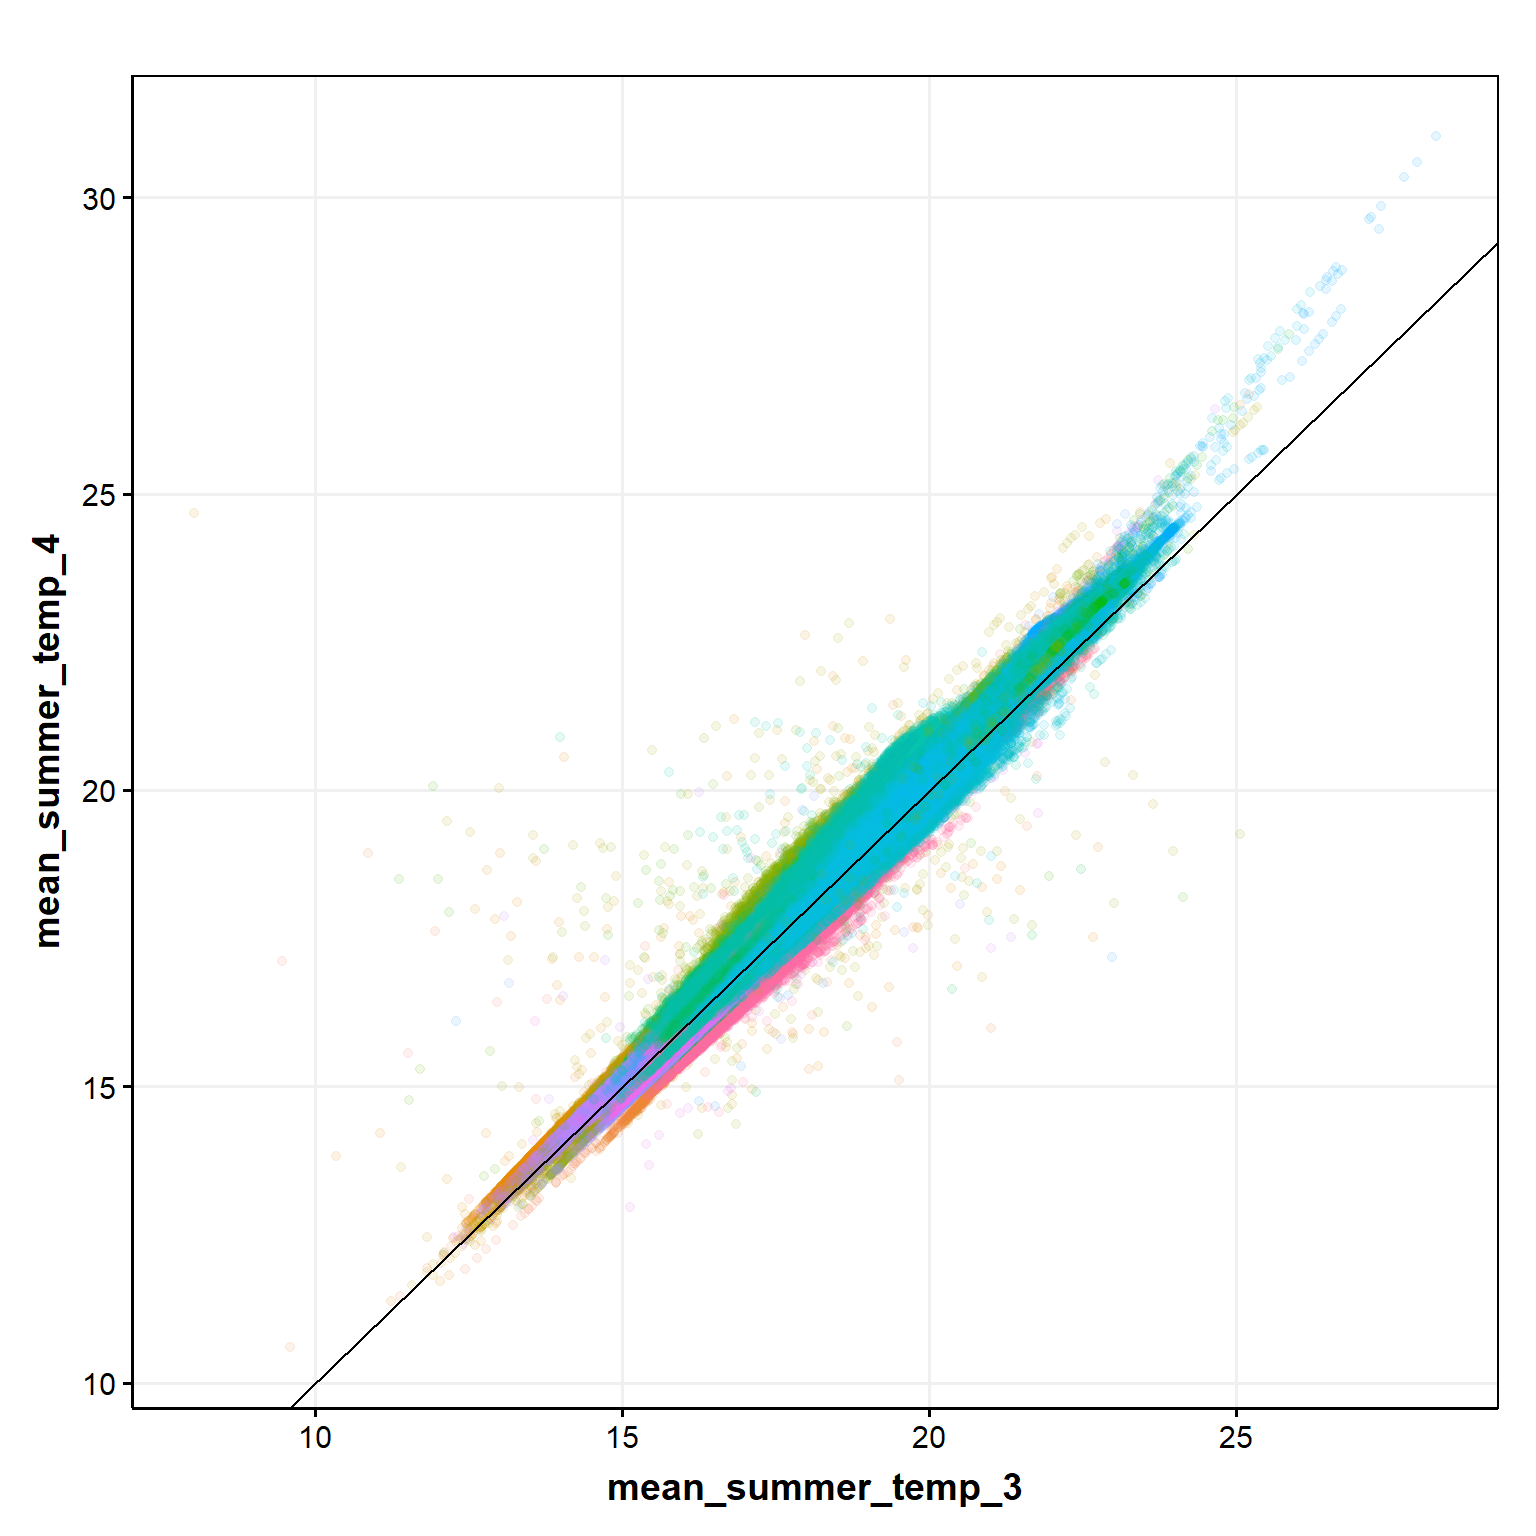
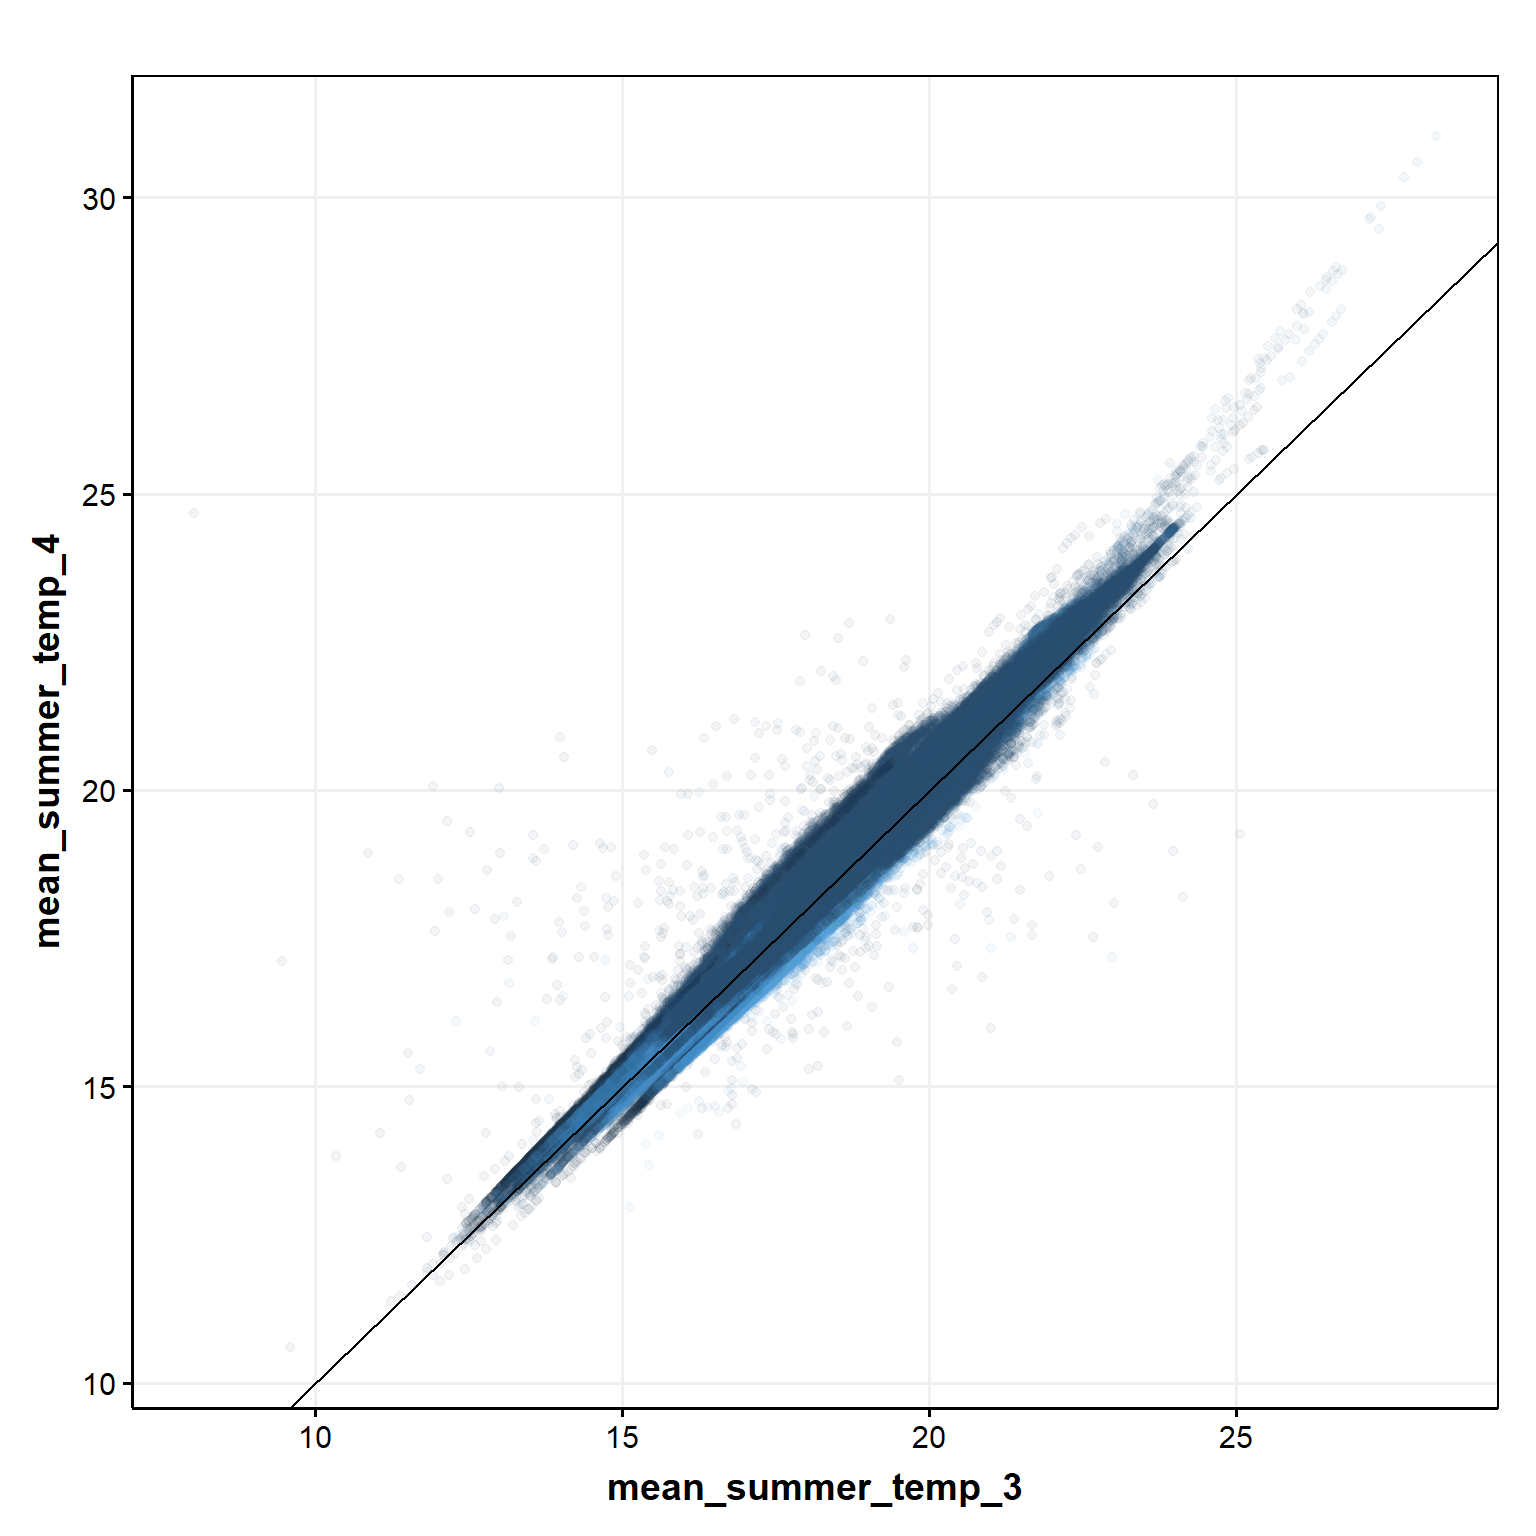
update

Changed region(s): [[0.2812, 0.25, 0.8125, 0.8125], [0.8438, 0.1875, 0.875, 0.2188], [0.8125, 0.2188, 0.8438, 0.25]]

diff --git a/docs/allCatchments.html b/docs/allCatchments.html
@@ -248,12 +248,12 @@ pre > code.sourceCode > span > a:first-child::before { text-decoration: underlin
 </details>
 </div>
 <p>Plot functions</p>
-<div class="cell" data-hash="allCatchments_cache/html/plotFunctionsAll_622fe5dbb796ede0fe5a7790c1dcd151">
+<div class="cell" data-hash="allCatchments_cache/html/plotFunctionsAll_1b903a29df62f4c1a48ed3d366648d09">
 <details>
 <summary>Code</summary>
 <div class="sourceCode cell-code" id="cb2"><pre class="sourceCode r code-with-copy"><code class="sourceCode r"><span id="cb2-1"><a href="#cb2-1" aria-hidden="true" tabindex="-1"></a>plotAll <span class="ot">&lt;-</span> <span class="cf">function</span>(d,x,y,huc) {</span>
-<span id="cb2-2"><a href="#cb2-2" aria-hidden="true" tabindex="-1"></a>  <span class="fu">ggplot</span>(d, <span class="fu">aes</span>(<span class="fu">get</span>(x), <span class="fu">get</span>(y), <span class="at">color =</span> <span class="fu">factor</span>(<span class="fu">get</span>(huc)))) <span class="sc">+</span></span>
-<span id="cb2-3"><a href="#cb2-3" aria-hidden="true" tabindex="-1"></a>    <span class="fu">geom_point</span>(<span class="at">alpha =</span> <span class="fl">0.1</span>, <span class="at">show.legend =</span> <span class="cn">FALSE</span>) <span class="sc">+</span></span>
+<span id="cb2-2"><a href="#cb2-2" aria-hidden="true" tabindex="-1"></a>  <span class="fu">ggplot</span>(d, <span class="fu">aes</span>(<span class="fu">get</span>(x), <span class="fu">get</span>(y), <span class="at">color =</span> (<span class="fu">get</span>(huc)))) <span class="sc">+</span></span>
+<span id="cb2-3"><a href="#cb2-3" aria-hidden="true" tabindex="-1"></a>    <span class="fu">geom_point</span>(<span class="at">alpha =</span> <span class="fl">0.05</span>, <span class="at">show.legend =</span> <span class="cn">FALSE</span>) <span class="sc">+</span></span>
 <span id="cb2-4"><a href="#cb2-4" aria-hidden="true" tabindex="-1"></a>    <span class="fu">geom_abline</span>(<span class="at">intercept =</span> <span class="dv">0</span>, <span class="at">slope =</span> <span class="dv">1</span>) <span class="sc">+</span></span>
 <span id="cb2-5"><a href="#cb2-5" aria-hidden="true" tabindex="-1"></a>    <span class="fu">labs</span>(<span class="at">x =</span> x, <span class="at">y =</span> y) <span class="sc">+</span></span>
 <span id="cb2-6"><a href="#cb2-6" aria-hidden="true" tabindex="-1"></a>    <span class="fu">theme_publication</span>()</span>
@@ -350,7 +350,7 @@ pre > code.sourceCode > span > a:first-child::before { text-decoration: underlin
 </section>
 <section id="huc10" class="level3" data-number="2.3.3">
 <h3 data-number="2.3.3" class="anchored" data-anchor-id="huc10"><span class="header-section-number">2.3.3</span> HUC10</h3>
-<div class="cell" data-hash="allCatchments_cache/html/summer10All_e152b777a457283320048b91a8e2033a">
+<div class="cell" data-hash="allCatchments_cache/html/summer10All_2091547ea3c73168b9df536ecbbe6234">
 <details>
 <summary>Code</summary>
 <div class="sourceCode cell-code" id="cb11"><pre class="sourceCode r code-with-copy"><code class="sourceCode r"><span id="cb11-1"><a href="#cb11-1" aria-hidden="true" tabindex="-1"></a><span class="fu">plotAll</span>(dWide, <span class="st">"mean_summer_temp_3"</span>, <span class="st">"mean_summer_temp_4"</span>,<span class="st">"huc10"</span>)</span></code><button title="Copy to Clipboard" class="code-copy-button"><i class="bi"></i></button></pre></div>
@@ -360,11 +360,8 @@ pre > code.sourceCode > span > a:first-child::before { text-decoration: underlin
 </div>
 <details>
 <summary>Code</summary>
-<div class="sourceCode cell-code" id="cb12"><pre class="sourceCode r code-with-copy"><code class="sourceCode r"><span id="cb12-1"><a href="#cb12-1" aria-hidden="true" tabindex="-1"></a><span class="fu">plotByHUC</span>(dWide, <span class="st">"mean_summer_temp_3"</span>, <span class="st">"mean_summer_temp_4"</span>, <span class="st">"huc10"</span>)</span></code><button title="Copy to Clipboard" class="code-copy-button"><i class="bi"></i></button></pre></div>
+<div class="sourceCode cell-code" id="cb12"><pre class="sourceCode r code-with-copy"><code class="sourceCode r"><span id="cb12-1"><a href="#cb12-1" aria-hidden="true" tabindex="-1"></a><span class="co">#plotByHUC(dWide, "mean_summer_temp_3", "mean_summer_temp_4", "huc10")</span></span></code><button title="Copy to Clipboard" class="code-copy-button"><i class="bi"></i></button></pre></div>
 </details>
-<div class="cell-output-display">
-<p><img src="allCatchments_files/figure-html/summer10All-2.png" class="img-fluid" width="768"></p>
-</div>
 </div>
 </section>
 </section>
@@ -818,8 +815,8 @@ window.document.addEventListener("DOMContentLoaded", function (event) {
 <span id="cb15-14"><a href="#cb15-14" aria-hidden="true" tabindex="-1"></a><span class="co">#| label: plotFunctionsAll</span></span>
 <span id="cb15-15"><a href="#cb15-15" aria-hidden="true" tabindex="-1"></a></span>
 <span id="cb15-16"><a href="#cb15-16" aria-hidden="true" tabindex="-1"></a>plotAll <span class="ot">&lt;-</span> <span class="cf">function</span>(d,x,y,huc) {</span>
-<span id="cb15-17"><a href="#cb15-17" aria-hidden="true" tabindex="-1"></a>  <span class="fu">ggplot</span>(d, <span class="fu">aes</span>(<span class="fu">get</span>(x), <span class="fu">get</span>(y), <span class="at">color =</span> <span class="fu">factor</span>(<span class="fu">get</span>(huc)))) <span class="sc">+</span></span>
-<span id="cb15-18"><a href="#cb15-18" aria-hidden="true" tabindex="-1"></a>    <span class="fu">geom_point</span>(<span class="at">alpha =</span> <span class="fl">0.1</span>, <span class="at">show.legend =</span> <span class="cn">FALSE</span>) <span class="sc">+</span></span>
+<span id="cb15-17"><a href="#cb15-17" aria-hidden="true" tabindex="-1"></a>  <span class="fu">ggplot</span>(d, <span class="fu">aes</span>(<span class="fu">get</span>(x), <span class="fu">get</span>(y), <span class="at">color =</span> (<span class="fu">get</span>(huc)))) <span class="sc">+</span></span>
+<span id="cb15-18"><a href="#cb15-18" aria-hidden="true" tabindex="-1"></a>    <span class="fu">geom_point</span>(<span class="at">alpha =</span> <span class="fl">0.05</span>, <span class="at">show.legend =</span> <span class="cn">FALSE</span>) <span class="sc">+</span></span>
 <span id="cb15-19"><a href="#cb15-19" aria-hidden="true" tabindex="-1"></a>    <span class="fu">geom_abline</span>(<span class="at">intercept =</span> <span class="dv">0</span>, <span class="at">slope =</span> <span class="dv">1</span>) <span class="sc">+</span></span>
 <span id="cb15-20"><a href="#cb15-20" aria-hidden="true" tabindex="-1"></a>    <span class="fu">labs</span>(<span class="at">x =</span> x, <span class="at">y =</span> y) <span class="sc">+</span></span>
 <span id="cb15-21"><a href="#cb15-21" aria-hidden="true" tabindex="-1"></a>    <span class="fu">theme_publication</span>()</span>
@@ -882,7 +879,7 @@ window.document.addEventListener("DOMContentLoaded", function (event) {
 <span id="cb15-88"><a href="#cb15-88" aria-hidden="true" tabindex="-1"></a><span class="co">#| label: summer10All</span></span>
 <span id="cb15-89"><a href="#cb15-89" aria-hidden="true" tabindex="-1"></a></span>
 <span id="cb15-90"><a href="#cb15-90" aria-hidden="true" tabindex="-1"></a><span class="fu">plotAll</span>(dWide, <span class="st">"mean_summer_temp_3"</span>, <span class="st">"mean_summer_temp_4"</span>,<span class="st">"huc10"</span>)</span>
-<span id="cb15-91"><a href="#cb15-91" aria-hidden="true" tabindex="-1"></a><span class="fu">plotByHUC</span>(dWide, <span class="st">"mean_summer_temp_3"</span>, <span class="st">"mean_summer_temp_4"</span>, <span class="st">"huc10"</span>)</span>
+<span id="cb15-91"><a href="#cb15-91" aria-hidden="true" tabindex="-1"></a><span class="co">#plotByHUC(dWide, "mean_summer_temp_3", "mean_summer_temp_4", "huc10")</span></span>
 <span id="cb15-92"><a href="#cb15-92" aria-hidden="true" tabindex="-1"></a></span>
 <span id="cb15-93"><a href="#cb15-93" aria-hidden="true" tabindex="-1"></a><span class="in">```</span></span>
 <span id="cb15-94"><a href="#cb15-94" aria-hidden="true" tabindex="-1"></a></span>
